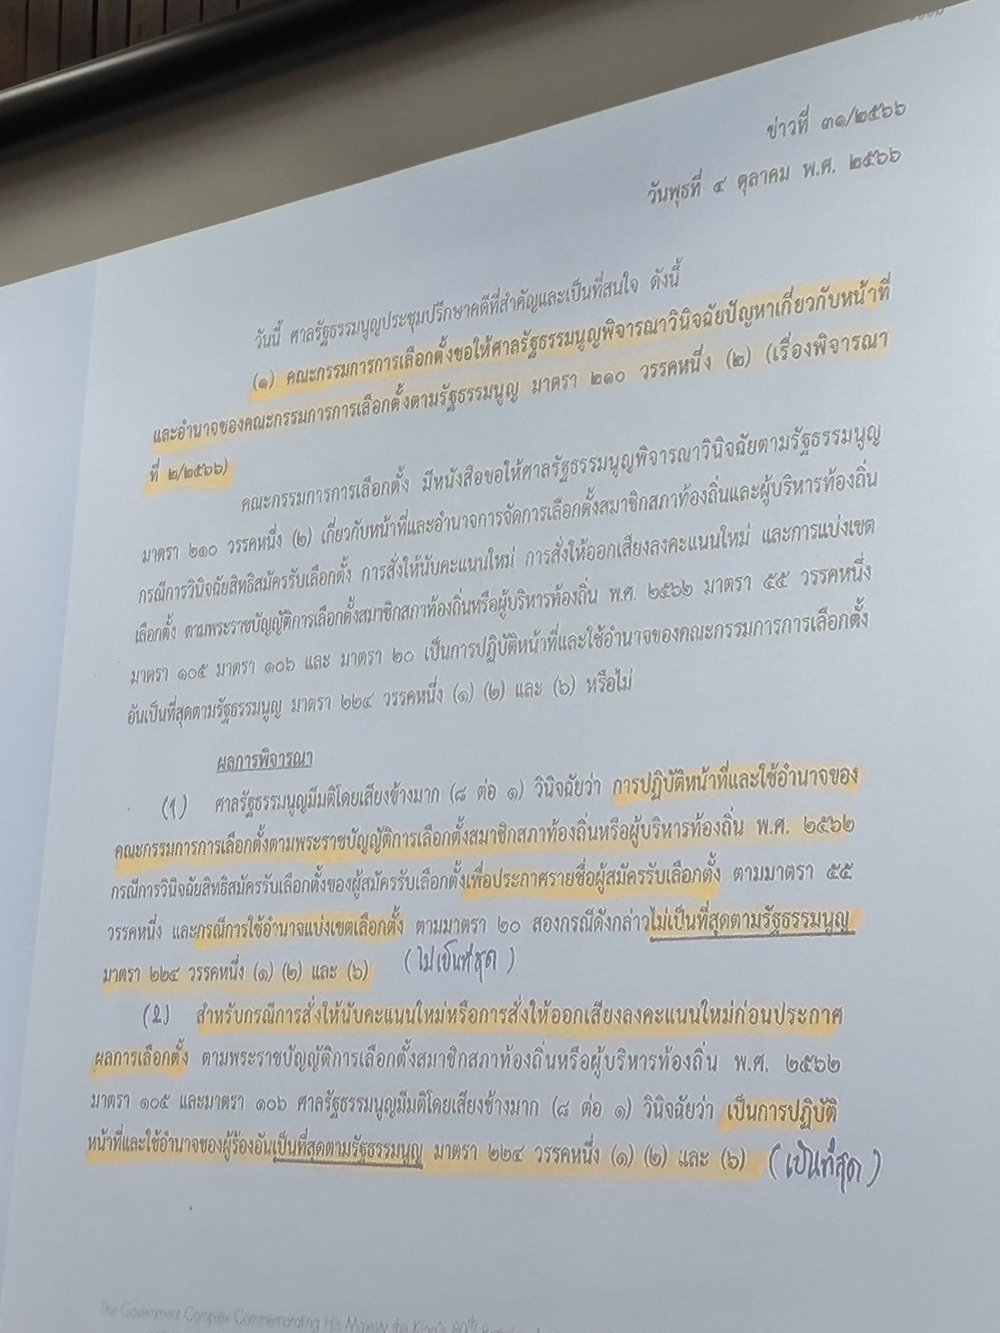
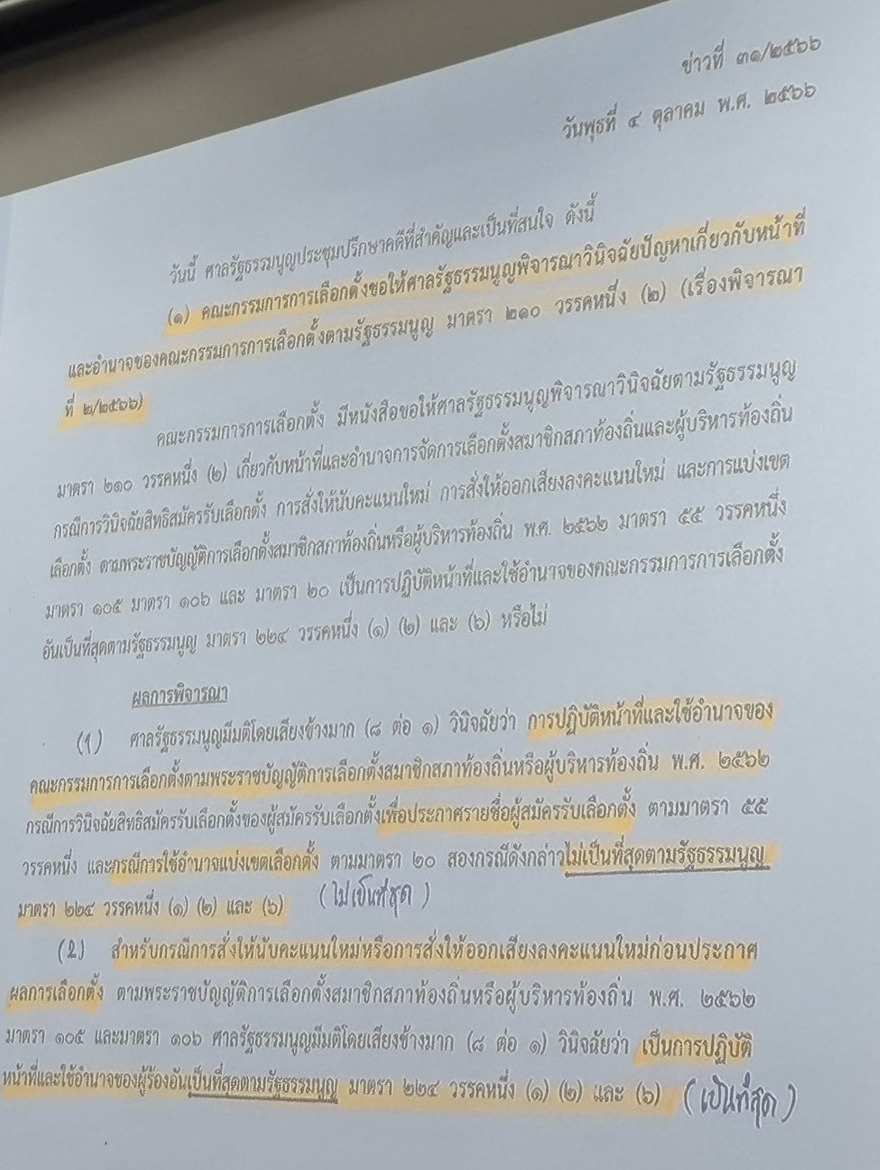
constcourt L13: crop projector borders from 2 photos; cap print image height so it fits one page

diff --git a/lecture-print.js b/lecture-print.js
@@ -35,7 +35,7 @@
     '  #printArea mark{background:#fdeeb0 !important}',
     '  #printArea .exercise-box{border:1px solid #999 !important;background:#f5f0df !important;padding:10px 12px;border-radius:6px;margin:10px 0}',
     '  #printArea .print-video-link{font-size:12px;margin:6px 0}',
-    '  #printArea img{max-width:100%;page-break-inside:avoid}',
+    '  #printArea img{max-width:100%;max-height:185mm;width:auto;object-fit:contain;page-break-inside:avoid;break-inside:avoid}',
     '  #printArea .lecture-img-pair{display:flex;gap:8px}',
     '  #printArea .lecture-img-pair img{height:160px;width:auto}',
     '  #printArea .lecture-img-inline{float:none;width:auto;margin:8px 0}',

diff --git a/constcourt.html b/constcourt.html
@@ -2856,7 +2856,7 @@ document.addEventListener('DOMContentLoaded', () => {
 </script>
 <link rel="stylesheet" href="legal-disclaimer.css">
 <script src="legal-footer.js"></script>
-<script src="lecture-print.js"></script>
+<script src="lecture-print.js?v=2"></script>
 <script src="comics-tab.js?v=16"></script>
 <script>ComicsTab.install('constcourt', [{k:'war', label:'⚔ War Mode', render: function(el){ renderWarMode(el); }}]);</script>
 </body>
